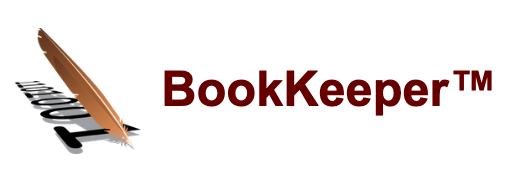
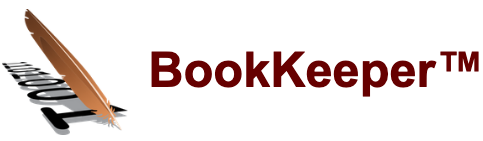
Change css, top header

Changed region(s): [[0.3106, 0.3404, 0.9938, 0.7092], [0.0, 0.0567, 0.2795, 0.9645]]

diff --git a/site2/website/static/css/custom.css b/site2/website/static/css/custom.css
@@ -21,3 +21,129 @@
 
 @media only screen and (min-width: 1500px) {
 }
+
+.topic {
+    color: #bcc5c5;
+    background-color: #232937;
+    font-size: 1.25rem;
+    font-family: "Inconsolata", monospace;
+    font-weight: 700;
+    padding: .5rem 0 .5rem 1rem;
+    border-radius: 0;
+}
+
+.tenant-color {
+    color: #b1cc00;
+}
+
+.navigationSlider .slidingNav ul li a {
+    color: #c86803;
+}
+
+.navigationSlider .slidingNav ul li.siteNavGroupActive a,
+.navigationSlider .slidingNav ul li.siteNavItemActive a,
+.navigationSlider .slidingNav ul li a:focus,
+.navigationSlider .slidingNav ul li a:hover {
+    background: white;
+    color: #c86803;
+}
+
+.navigationSlider .slidingNav ul li.siteNavItemActive a {
+    background: #c86803;
+    color: white;
+}
+
+/* header navigation */
+.fixedHeaderContainer {
+    background-color: white;
+}
+
+
+/* for drop down menus */
+#community-dropdown.hide,
+#apache-dropdown.hide,
+#restapis-dropdown.hide,
+#cli-dropdown.hide,
+#languages-dropdown.hide {
+    display: none;
+}
+
+
+#community-dropdown.visible,
+#apache-dropdown.visible,
+#restapis-dropdown.visible,
+#cli-dropdown.visible,
+#languages-dropdown.visible {
+    display: flex;
+}
+
+#community-dropdown,
+#apache-dropdown,
+#restapis-dropdown,
+#cli-dropdown,
+#languages-dropdown {
+    pointer-events: none;
+    position: absolute;
+    width: 100%;
+}
+
+#community-dropdown-items,
+#apache-dropdown-items,
+#restapis-dropdown-items,
+#cli-dropdown-items,
+#languages-dropdown-items {
+    background-color: white;
+    display: flex;
+    flex-direction: column;
+    min-width: 120px;
+    pointer-events: all;
+    border: 1px solid rgba(35, 41, 55, 0.15);
+    border-radius: 0.25rem;
+}
+
+
+.logo-wrapper {
+    display: grid;
+    grid-template-columns: 250px 250px 250px 250px;
+    grid-gap: 30px;
+    /* background-color: #fff; */
+    /* color: #444; */
+    /* border: dashed red 1px; */
+    /* align-items: center; */
+    justify-content: center;
+}
+
+.logo-box {
+    /* background-color: #fafafa; */
+    /* color: #fff; */
+    border-radius: 5px;
+    padding: 20px;
+    font-size: 150%;
+    /* border: dashed blue 1px; */
+    height: 120px;
+    display: flex;
+    align-items: center;
+    justify-content: center;
+
+}
+
+.logo-box-background-for-white {
+    background-color: #0f1637;
+    border-radius: 5px;
+    padding: 20px;
+    font-size: 150%;
+    /* border: dashed blue 1px; */
+    height: 120px;
+    display: flex;
+    align-items: center;
+    justify-content: center;
+}
+
+.logo-box img {
+    max-height: 80px;
+    /* border: dashed green 1px; */
+}
+
+.logo-svg {
+    min-width: 200px;
+}

diff --git a/site2/website/siteConfig.js b/site2/website/siteConfig.js
@@ -23,7 +23,7 @@ const users = [
 const githubUrl = 'https://github.com/apache/bookkeeper';
 
 const siteConfig = {
-  title: 'Apache BookKeeper', // Title for your website.
+  title: '', // Title for your website.
   tagline: 'A scalable, fault-tolerant, and low-latency storage service optimized for real-time workloads ',
   url: 'https://http://bookkeeper.apache.org/',
   baseUrl: '/', // Base URL for your project */
@@ -50,13 +50,13 @@ const siteConfig = {
   users,
 
   /* path to images for header/footer */
-  headerIcon: 'img/favicon.ico',
+  headerIcon: 'img/bk-header.png',
   footerIcon: 'img/favicon.ico',
   favicon: 'img/favicon.ico',
 
   /* Colors for website */
   colors: {
-    primaryColor: '#4d0d41',
+    primaryColor: '#c86803',
     secondaryColor: '#35092d',
   },
 

diff --git a/site2/website/static/css/code-blocks-buttons.css b/site2/website/static/css/code-blocks-buttons.css
@@ -1,0 +1,46 @@
+/* "Copy" code block button */
+pre {
+    position: relative;
+}
+
+pre .btnIcon {
+    position: absolute;
+    top: 4px;
+    z-index: 2;
+    cursor: pointer;
+    border: 1px solid transparent;
+    padding: 0;
+    color: #fff;
+    background-color: transparent;
+    height: 30px;
+    transition: all .25s ease-out;
+}
+
+pre .btnIcon:hover {
+    text-decoration: none;
+}
+
+.btnIcon__body {
+    align-items: center;
+    display: flex;
+}
+
+.btnIcon svg {
+    fill: currentColor;
+    margin-right: .4em;
+}
+
+.btnIcon__label {
+    font-size: 11px;
+}
+
+.btnClipboard {
+    right: 10px;
+}
+
+.version_select {
+    width: 200px;
+    height: 30px;
+    border: 1px solid #000000;
+    border-radius: 4px;
+}
